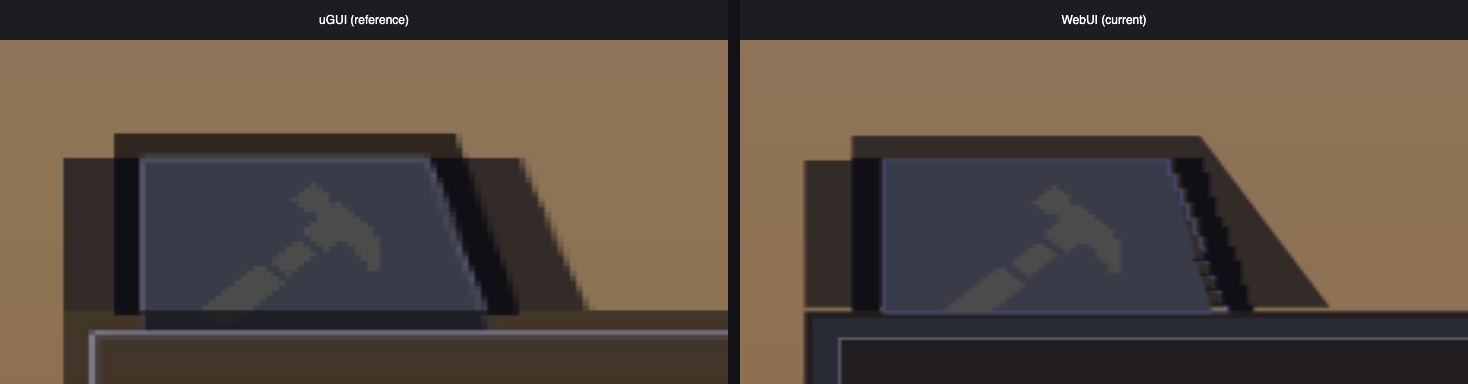
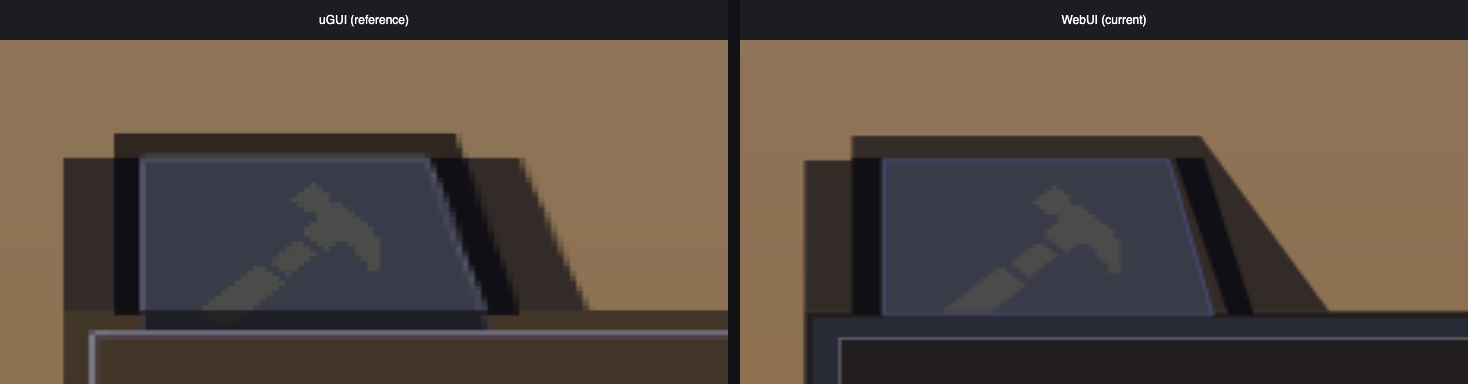
fix: smooth craft tab edge and close panel gap

diff --git a/moorestech_web/webui/e2e/tests/recipe/craftTabVisual.spec.ts b/moorestech_web/webui/e2e/tests/recipe/craftTabVisual.spec.ts
@@ -1,0 +1,111 @@
+import { expect, test } from "@playwright/test";
+
+test.beforeEach(async ({ page }) => {
+  await page.goto("/");
+  await expect(page.getByRole("heading", { name: "CRAFT RECIPE" })).toBeVisible();
+  await page.getByTestId("item-list-grid").locator("> div").first().click();
+  await expect(page.getByTestId("craft-tab")).toBeVisible();
+});
+
+test("クラフトタブの右斜辺を階段形状にしない", async ({ page }) => {
+  const side = page.getByTestId("craft-tab").locator("path").nth(3);
+  const rowEndpoints = await side.evaluate((path) => {
+    const geometry = path as SVGGeometryElement;
+    const rows: Array<{ left: number; right: number }> = [];
+
+    // 右側成分を各行の塗り領域として走査する
+    // Scan the right component as a filled interval on every row
+    for (let y = 10; y < 70; y += 1) {
+      const filled = [];
+      for (let x = 100; x < 150; x += 1) {
+        if (geometry.isPointInFill(new DOMPoint(x + 0.5, y + 0.5))) filled.push(x);
+      }
+      if (filled.length > 0) rows.push({ left: filled[0], right: filled.at(-1)! });
+    }
+    return rows;
+  });
+
+  // 全走査行を確保し、旧段差の行欠落を検知する
+  // Require every scanned row so missing rows from the old stepped edge fail
+  expect(rowEndpoints).toHaveLength(60);
+
+  // 滑らかな斜辺では左右端が各行で最大1pxだけ下方へ進む
+  // Both edges of a smooth slope advance downward by at most one pixel per row
+  for (let index = 1; index < rowEndpoints.length; index += 1) {
+    const leftDelta = rowEndpoints[index].left - rowEndpoints[index - 1].left;
+    const rightDelta = rowEndpoints[index].right - rowEndpoints[index - 1].right;
+    expect(leftDelta).toBeGreaterThanOrEqual(0);
+    expect(leftDelta).toBeLessThanOrEqual(1);
+    expect(rightDelta).toBeGreaterThanOrEqual(0);
+    expect(rightDelta).toBeLessThanOrEqual(1);
+  }
+});
+
+test("クラフトタブの下端をパネル上端へ接触させる", async ({ page }) => {
+  const craftTab = page.getByTestId("craft-tab");
+  const craftPanel = craftTab.locator('xpath=ancestor::*[@data-variant="craft"][1]');
+  const back = craftTab.locator("path").first();
+
+  // 背面からパネルまで描画経路を検証
+  // Verify the paint path from the back to the panel
+  const backState = await back.evaluate((path) => {
+    const geometry = path as SVGGeometryElement;
+    const style = getComputedStyle(path);
+    const panelAncestorStyles: Array<{ display: string; visibility: string; opacity: number; clipPath: string; overflow: string }> = [];
+    let currentElement: Element | null = path;
+    let effectiveOpacity = 1;
+    let reachedCraftPanel = false;
+
+    // パネルまで祖先の表示・クリップを収集
+    // Collect ancestor display and clipping up to the panel
+    while (currentElement !== null) {
+      const currentStyle = getComputedStyle(currentElement);
+      const opacity = Number.parseFloat(currentStyle.opacity);
+      panelAncestorStyles.push({
+        display: currentStyle.display,
+        visibility: currentStyle.visibility,
+        opacity,
+        clipPath: currentStyle.clipPath,
+        overflow: currentStyle.overflow,
+      });
+      effectiveOpacity *= opacity;
+      if (currentElement.getAttribute("data-variant") === "craft") {
+        reachedCraftPanel = true;
+        break;
+      }
+      currentElement = currentElement.parentElement;
+    }
+
+    // 背面の塗りと下端ヒットを返す
+    // Return back fill and lower hit
+    return {
+      fill: style.fill,
+      fillOpacity: Number.parseFloat(style.fillOpacity),
+      fillsLowerInnerPoint: geometry.isPointInFill(new DOMPoint(75, 71)),
+      panelAncestorStyles,
+      effectiveOpacity,
+      reachedCraftPanel,
+    };
+  });
+  expect(backState.fill).not.toBe("none");
+  expect(backState.fillOpacity).toBe(1);
+  expect(backState.fillsLowerInnerPoint).toBe(true);
+  expect(backState.reachedCraftPanel).toBe(true);
+  for (const ancestorStyle of backState.panelAncestorStyles) {
+    expect(ancestorStyle.display).not.toBe("none");
+    expect(ancestorStyle.visibility).toBe("visible");
+    expect(ancestorStyle.opacity).toBeGreaterThan(0);
+    expect(ancestorStyle.clipPath).toBe("none");
+    expect(ancestorStyle.overflow).toBe("visible");
+  }
+  expect(backState.effectiveOpacity).toBe(1);
+
+  // 外接矩形でもパネル上端との隙間を許容範囲内に固定する
+  // Keep the bounding-box gap to the panel top within the permitted range
+  const gap = await back.evaluate((path, panel) => {
+    return (panel as Element).getBoundingClientRect().top - path.getBoundingClientRect().bottom;
+  }, await craftPanel.elementHandle());
+
+  expect(gap).toBeLessThanOrEqual(0);
+  expect(gap).toBeGreaterThanOrEqual(-0.5);
+});

diff --git a/moorestech_web/webui/src/features/recipe/views/ItemHeader.tsx b/moorestech_web/webui/src/features/recipe/views/ItemHeader.tsx
@@ -15,10 +15,10 @@ export default function ItemHeader({ name }: { name: string }) {
         aria-hidden="true"
         focusable="false"
       >
-        <path className={styles.toolTabBack} d="M15 0H125L166 70H0V10H15Z" />
+        <path className={styles.toolTabBack} d="M15 0H125L166 72H0V10H15Z" />
         <path className={styles.toolTabFace} d="M25 10H115L129 73H25Z" />
-        <path className={styles.toolTabEdge} d="M25 10H115V16H117V22H119V28H121V34H123V40H125V46H127V50H125V51H127V52H129V56H127V57H129V58H131V62H129V63H131V64H133V68H131V69H133V70H135V72H25Z" />
-        <path className={styles.toolTabSide} d="M117 9H126V15H117ZM119 15H128V21H119ZM121 21H128V25H121ZM121 25H130V27H121ZM123 27H130V33H123ZM125 33H132V37H125ZM125 37H134V41H125ZM127 41H134V45H127ZM127 45H136V48H127ZM126 48H136V50H126ZM123 50H136V51H123ZM128 51H138V54H128ZM128 54H138V56H128ZM125 56H138V57H125ZM130 57H138V60H130ZM130 60H138V61H130ZM130 61H140V62H130ZM127 62H140V63H127ZM132 63H140V66H132ZM132 66H140V68H132ZM129 68H140V69H129ZM134 69H142V72H134ZM15 9H24V72H15Z" />
+        <path className={styles.toolTabEdge} d="M25 10H115L129 73H25Z" />
+        <path className={styles.toolTabSide} d="M117 9H126L142 73H134ZM15 9H24V73H15Z" />
         <path className={styles.toolTabHammer} d="M78 20H80V22H78ZM76 22H82V24H76ZM74 24H84V26H74ZM72 26H84V28H72ZM74 28H88V30H74ZM76 30H90V32H76ZM80 32H92V34H80ZM80 34H94V36H80ZM78 36H96V38H78ZM76 38H98V42H76ZM78 42H100V44H78ZM72 44H76V46H72ZM80 44H86V46H80ZM90 44H100V46H90ZM70 46H78V48H70ZM82 46H84V48H82ZM92 46H100V48H92ZM68 48H80V50H68ZM92 48H100V50H92ZM66 50H78V52H66ZM94 50H100V52H94ZM66 52H76V54H66ZM96 52H100V54H96ZM60 54H64V56H60ZM68 54H74V56H68ZM96 54H100V56H96ZM58 56H66V58H58ZM70 56H72V58H70ZM56 58H68V60H56ZM54 60H70V62H54ZM52 62H68V64H52ZM50 64H66V66H50ZM48 66H64V68H48ZM46 68H62V70H46ZM44 70H60V72H44Z" />
       </svg>
       <Text className={styles.itemName}>{name}</Text>

diff --git a/moorestech_web/webui/e2e/tests/recipe.spec.ts b/moorestech_web/webui/e2e/tests/recipe.spec.ts
@@ -3,10 +3,10 @@ import { payloadsOf } from "../support/actions";
 import { expectCraftGrip } from "../support/craftChromeAssertions";
 
 const CRAFT_TAB_PATHS = [
-  "M15 0H125L166 70H0V10H15Z",
+  "M15 0H125L166 72H0V10H15Z",
   "M25 10H115L129 73H25Z",
-  "M25 10H115V16H117V22H119V28H121V34H123V40H125V46H127V50H125V51H127V52H129V56H127V57H129V58H131V62H129V63H131V64H133V68H131V69H133V70H135V72H25Z",
-  "M117 9H126V15H117ZM119 15H128V21H119ZM121 21H128V25H121ZM121 25H130V27H121ZM123 27H130V33H123ZM125 33H132V37H125ZM125 37H134V41H125ZM127 41H134V45H127ZM127 45H136V48H127ZM126 48H136V50H126ZM123 50H136V51H123ZM128 51H138V54H128ZM128 54H138V56H128ZM125 56H138V57H125ZM130 57H138V60H130ZM130 60H138V61H130ZM130 61H140V62H130ZM127 62H140V63H127ZM132 63H140V66H132ZM132 66H140V68H132ZM129 68H140V69H129ZM134 69H142V72H134ZM15 9H24V72H15Z",
+  "M25 10H115L129 73H25Z",
+  "M117 9H126L142 73H134ZM15 9H24V73H15Z",
   "M78 20H80V22H78ZM76 22H82V24H76ZM74 24H84V26H74ZM72 26H84V28H72ZM74 28H88V30H74ZM76 30H90V32H76ZM80 32H92V34H80ZM80 34H94V36H80ZM78 36H96V38H78ZM76 38H98V42H76ZM78 42H100V44H78ZM72 44H76V46H72ZM80 44H86V46H80ZM90 44H100V46H90ZM70 46H78V48H70ZM82 46H84V48H82ZM92 46H100V48H92ZM68 48H80V50H68ZM92 48H100V50H92ZM66 50H78V52H66ZM94 50H100V52H94ZM66 52H76V54H66ZM96 52H100V54H96ZM60 54H64V56H60ZM68 54H74V56H68ZM96 54H100V56H96ZM58 56H66V58H58ZM70 56H72V58H70ZM56 58H68V60H56ZM54 60H70V62H54ZM52 62H68V64H52ZM50 64H66V66H50ZM48 66H64V68H48ZM46 68H62V70H46ZM44 70H60V72H44Z",
 ];
 

diff --git a/moorestech_web/webui/e2e/craft-chrome/compare.py b/moorestech_web/webui/e2e/craft-chrome/compare.py
@@ -21,7 +21,12 @@ GRIP_BOTTOM_GAP = 19
 GEOMETRY_TOLERANCE = 1
 HAMMER_TOLERANCE = 2
 SHAPE_AREA_TOLERANCE = 0.05
+SMOOTH_SIDE_AREA_TOLERANCE = 0.10
 COLOR_TOLERANCE = 15
+TAB_CONTACT_MIN_TOP_PIXELS = 90
+TAB_CONTACT_MIN_CONNECTED_PIXELS = 90
+TAB_CONTACT_MIN_CONNECTED_RUN = 60
+TAB_CONTACT_COLORS = np.array(((51, 43, 40), (16, 15, 21), (58, 59, 72), (73, 75, 120), (75, 75, 75)), dtype=np.uint8)
 
 
 def detect_panel(image: np.ndarray) -> tuple[int, int, int, int]:
@@ -53,6 +58,15 @@ def median_color(image: np.ndarray, x: int, y: int) -> tuple[int, int, int]:
 def crop(image: np.ndarray, panel: tuple[int, int, int, int], box: tuple[int, int, int, int], from_right: bool) -> np.ndarray:
     anchor_x, anchor_y = (panel[2], panel[3]) if from_right else (panel[0], panel[1])
     return image[anchor_y + box[1]:anchor_y + box[3], anchor_x + box[0]:anchor_x + box[2]]
+
+
+def tab_color_mask(row: np.ndarray) -> np.ndarray:
+    return np.any(np.all(row[:, None, :] == TAB_CONTACT_COLORS[None, :, :], axis=2), axis=1)
+
+
+def longest_run(mask: np.ndarray) -> int:
+    changes = np.flatnonzero(np.diff(np.r_[False, mask, False]))
+    return max((int(end - start) for start, end in zip(changes[::2], changes[1::2])), default=0)
 
 
 def save_artifacts(ref: np.ndarray, cur: np.ndarray, ref_panel: tuple[int, int, int, int], cur_panel: tuple[int, int, int, int], output: Path) -> None:
@@ -95,10 +109,15 @@ def main() -> int:
         print(f"[{'PASS' if ok else 'FAIL'}] {name}: {detail}")
     def dimensions(box: tuple[int, int, int, int]) -> tuple[int, int]: return box[2] - box[0] + 1, box[3] - box[1] + 1
     def delta(box: tuple[int, int, int, int], expected: tuple[int, int, int, int]) -> int: return max(abs(value - target) for value, target in zip(box, expected))
-    def area_ok(current: int, reference: int) -> bool: return abs(current - reference) <= round(reference * SHAPE_AREA_TOLERANCE)
+    def area_ok(current: int, reference: int, tolerance: float) -> bool: return abs(current - reference) <= round(reference * tolerance)
     def profile_check(name: str, reference: dict[int, tuple[int, int]], current: dict[int, tuple[int, int]]) -> None:
         endpoint_delta = row_endpoint_delta(reference, current)
         check(name, endpoint_delta <= GEOMETRY_TOLERANCE, f"max endpoint Δ={endpoint_delta}")
+    def smooth_profile_check(name: str, profile: dict[int, tuple[int, int]]) -> None:
+        endpoints = [profile[row] for row in sorted(profile)]
+        reversals = sum(current[0] < previous[0] or current[1] < previous[1] for previous, current in zip(endpoints, endpoints[1:]))
+        max_step = max((max(current[0] - previous[0], current[1] - previous[1]) for previous, current in zip(endpoints, endpoints[1:])), default=0)
+        check(name, reversals == 0 and max_step <= 1, f"reversals={reversals} max step={max_step}")
     # 幾何値と色を正本の目標値に照合する
     # Check geometry and colors against the reference-derived targets
     panel_delta = max(abs(a - b) for a, b in zip(dimensions(cur_panel), dimensions(ref_panel)))
@@ -107,17 +126,28 @@ def main() -> int:
     check("tab-size", max(abs(a - b) for a, b in zip(tab_size, TAB_SIZE)) <= GEOMETRY_TOLERANCE, f"bbox={cur_tab} size={tab_size}")
     check("tab-left", abs(tab_left - TAB_LEFT_DELTA) <= GEOMETRY_TOLERANCE, f"bbox={cur_tab} got={tab_left}")
     check("tab-bottom-gap", TAB_BOTTOM_GAP[0] <= tab_bottom_gap <= TAB_BOTTOM_GAP[1], f"bbox={cur_tab} got={tab_bottom_gap} range={TAB_BOTTOM_GAP}")
+    # パネル上端と直上行のタブ色を連続接続として確認する
+    # Verify tab-color continuity across the panel top and the row above
+    tab_slice = slice(cur_panel[0], cur_panel[0] + TAB_SIZE[0])
+    top_mask = tab_color_mask(cur[cur_panel[1], tab_slice])
+    above_mask = tab_color_mask(cur[cur_panel[1] - 1, tab_slice])
+    connected_mask = top_mask & above_mask
+    top_pixels, connected_pixels = int(top_mask.sum()), int(connected_mask.sum())
+    connected_run = longest_run(connected_mask)
+    check("tab-contact", top_pixels >= TAB_CONTACT_MIN_TOP_PIXELS and connected_pixels >= TAB_CONTACT_MIN_CONNECTED_PIXELS and connected_run >= TAB_CONTACT_MIN_CONNECTED_RUN, f"top={top_pixels} connected={connected_pixels} longest run={connected_run}")
     hammer_delta = delta(relative(cur_hammer[:4], cur_panel), HAMMER_BOX)
     check("hammer-box", hammer_delta <= HAMMER_TOLERANCE, f"relative={relative(cur_hammer[:4], cur_panel)} maxΔ={hammer_delta}")
-    check("hammer-area", area_ok(cur_hammer[4], ref_hammer[4]), f"ref={ref_hammer[4]} cur={cur_hammer[4]} tolerance={round(ref_hammer[4] * SHAPE_AREA_TOLERANCE)}")
+    check("hammer-area", area_ok(cur_hammer[4], ref_hammer[4], SHAPE_AREA_TOLERANCE), f"ref={ref_hammer[4]} cur={cur_hammer[4]} tolerance={round(ref_hammer[4] * SHAPE_AREA_TOLERANCE)}")
     ref_hammer_mask, ref_hammer_x, ref_hammer_y = hammer_mask(ref, ref_panel)
     cur_hammer_mask, cur_hammer_x, cur_hammer_y = hammer_mask(cur, cur_panel)
     profile_check("hammer-row-endpoints", row_endpoints(ref_hammer_mask, ref_hammer, ref_hammer_x, ref_hammer_y, ref_panel), row_endpoints(cur_hammer_mask, cur_hammer, cur_hammer_x, cur_hammer_y, cur_panel))
-    for name, reference, current, ref_mask, cur_mask, ref_x, ref_y, cur_x, cur_y in (("side-left", ref_side_left, cur_side_left, ref_side_mask, cur_side_mask, ref_side_x, ref_side_y, cur_side_x, cur_side_y), ("side-right", ref_side_right, cur_side_right, ref_side_mask, cur_side_mask, ref_side_x, ref_side_y, cur_side_x, cur_side_y)):
-        check(f"{name}-area", area_ok(current[4], reference[4]), f"ref={reference[4]} cur={current[4]} tolerance={round(reference[4] * SHAPE_AREA_TOLERANCE)}")
+    for name, reference, current in (("side-left", ref_side_left, cur_side_left), ("side-right", ref_side_right, cur_side_right)):
+        area_tolerance = SHAPE_AREA_TOLERANCE if name == "side-left" else SMOOTH_SIDE_AREA_TOLERANCE
+        check(f"{name}-area", area_ok(current[4], reference[4], area_tolerance), f"ref={reference[4]} cur={current[4]} tolerance={round(reference[4] * area_tolerance)}")
         box_delta = delta(relative(current[:4], cur_panel), relative(reference[:4], ref_panel))
         check(f"{name}-box", box_delta <= GEOMETRY_TOLERANCE, f"ref={relative(reference[:4], ref_panel)} cur={relative(current[:4], cur_panel)} maxΔ={box_delta}")
-        profile_check(f"{name}-row-endpoints", row_endpoints(ref_mask, reference, ref_x, ref_y, ref_panel), row_endpoints(cur_mask, current, cur_x, cur_y, cur_panel))
+    profile_check("side-left-row-endpoints", row_endpoints(ref_side_mask, ref_side_left, ref_side_x, ref_side_y, ref_panel), row_endpoints(cur_side_mask, cur_side_left, cur_side_x, cur_side_y, cur_panel))
+    smooth_profile_check("side-right-smooth", row_endpoints(cur_side_mask, cur_side_right, cur_side_x, cur_side_y, cur_panel))
     grip_size = dimensions(cur_grip)
     check("grip-size", max(abs(a - b) for a, b in zip(grip_size, GRIP_SIZE)) <= GEOMETRY_TOLERANCE, f"bbox={cur_grip} size={grip_size}")
     for name, got, target in (("grip-right-gap", cur_panel[2] - cur_grip[2] - 1, GRIP_RIGHT_GAP), ("grip-bottom-gap", cur_panel[3] - cur_grip[3] - 1, GRIP_BOTTOM_GAP)):

diff --git a/.claude/skills/moores-code-review/records/2026-08-01-craft-tab-corner-parity-r2.md b/.claude/skills/moores-code-review/records/2026-08-01-craft-tab-corner-parity-r2.md
@@ -1,0 +1,37 @@
+# クラフトタブ右辺平滑化・接触修正 レビュー記録 (2026-08-01)
+
+前回記録: [2026-08-01-craft-tab-corner-parity.md](2026-08-01-craft-tab-corner-parity.md)
+
+## 対象
+- base: `7de71923eb34aa607fd61bcdd2ea87e0c6af2251` / reviewed head: 同HEAD上のstaged差分（7ファイル、152 additions / 11 deletions）
+- ブランチ: `sakastudio/web-ui-craft` / PR: #1114
+- context要約 — ゴール: 右辺の意図的2px段差を滑らかな直線へ置換し、タブ下端をパネルへ接触させ、ハンマーを不変に保つ / 非目標: クラフトタブ外の全画面差と補助比較器のCI化 / 許容トレードオフ: 平滑化に伴う正本の段差形状からの意図的乖離、右側面だけ10%面積許容 / 制約: 既存5層SVG、既存配色、パネル地色を変更しない
+
+## 系統別判定
+| 系統 | Critical | 要旨 |
+|---|---|---|
+| 決定論チェック | なし | confirmed 0、比較演算子候補0。最終ファイルは111/165行以内 |
+| terra high reviewer群 | 2件を適用 | 2px階段の偽陽性と透明・クリップ時の接触偽陽性を負例つきで解消。最終whole-diffはCritical/Important/Minorなし |
+| Codex外部監査 | High 2件を適用 | paint祖先をcraft panelまで拡張し、接触をpanel topと直上行の連続runで判定。再監査で両件ADDRESSED、新規Critical/Highなし |
+| Fable全般相当 | なし | legacy Fableの代わりにterra highのホリスティックレビューを実施 |
+| post-checks | 5件を適用 | 長い説明コメントを機械的短縮。根拠保全Criticalなし、最終コメント規約Criticalなし |
+
+## 適用した修正
+- 右辺を単一ポリゴンへ置換し、背面だけ2 SVG px延長。ハンマーpath不変（ユーザー指摘）→ 本記録と同一コミット
+- 全60行・端点delta 0..1、paint祖先、fill、bbox接触をPlaywrightで固定（terra high reviewer）→ 本記録と同一コミット
+- panel topと直上行の接続画素・最長runを比較器へ追加（Codex外部監査）→ 本記録と同一コミット
+- コメント5組を規約内へ短縮（comment-convention-guard）→ 本記録と同一コミット
+
+## 設計判断（AskUserQuestion裁定）
+- 新規裁定なし。ユーザーが明示した「ジャギーは不要」「下の部分と触れ合わせる」を優先した。
+
+## 破棄した指摘
+- 比較器を通常E2E/CIへ接続する指摘 — 正本3270×1844画像をリポジトリ外入力とする補助QAで、この追修正の非目標。Playwrightに恒久契約を実装済み。
+- PR掲載用`full-current.png`を比較器の3270×1844入力にする指摘 — 掲載画像と機械比較入力は用途が異なり、比較は再現コマンドと原寸一時キャプチャで22/22確認した。
+- 1pxごとの離散化も矩形ジャギーとみなす指摘 — ベクタ斜辺のラスタライズにも0/1px進行は必須であり、今回の旧2px段差はdelta上限と正確なpath契約で排除する。
+
+## 事後結果（マージ後追記可）
+- なし
+
+## メタ
+- セッションID: Codex外部監査 `019fbd16-331d-7681-beac-e9d964aed38c` / スキップ系統: legacy Opus・Sonnet・Fableは利用不可のためterra highで代替 / 備考: 新画像22/22、旧画像20/22、prod/dev全E2E各123件を最終diffで確認

diff --git a/.claude/skills/moores-code-review/eval/log.md b/.claude/skills/moores-code-review/eval/log.md
@@ -31,3 +31,4 @@
 | 2026-07-29 | #1093 チャレンジHUD状態独立 R2 | —（pre-merge再レビュー） | 回帰テスト実効性×2・安全帯×1・未裁定の集合上限×1 | 4系統（test-mutation / Codex / reviewer / post-check） | 0 | [R2記録](../records/2026-07-29-persistent-challenge-hud-state-independence-r2.md)。自動修正は適用済み。無制限チャレンジの表示契約のみ裁定待ち。 |
 | 2026-07-30 | レシピツリー残存実装削除 | —（pre-merge自己ゲート） | Critical 0。現行文書の削除済みテスト参照2件・視覚評価基準の旧ボタン契約1件を検出して修正 | Codex / Fable / reviewer | 1（削除専用テスト維持） | [記録](../records/2026-07-30-recipe-tree-removal.md)。決定論・15 reviewer・post-checkはCritical 0。Unityコンパイル、保存往復テスト、Web build/lint/test/E2E、残存参照0を確認。 |
 | 2026-08-01 | クラフトタブ・右下グリップ視覚パリティ | —（pre-merge自己ゲート） | Critical 2（形状mutation耐性・検出定数重複）、Codex High 1 / Medium 1、post-check 2を適用 | reviewer / Codex / post-checks | 2（テスト配置上限・AABB狭小化） | [記録](../records/2026-08-01-craft-tab-corner-parity.md)。比較器を21項目へ拡張し、prod/dev全121 E2Eと実画像比較を確認。 |
+| 2026-08-01 | #1114 クラフトタブ右辺平滑化・接触修正 R2 | —（pre-merge再レビュー） | Critical相当2（段差・paint接触のテスト偽陽性）、Codex High 2、post-check 5を適用 | terra high reviewer / Codex / post-checks | 3（比較器CI化・PR画像寸法・1px離散化） | [R2記録](../records/2026-08-01-craft-tab-corner-parity-r2.md)。新画像22/22、旧画像20/22でmutationを確認。 |
